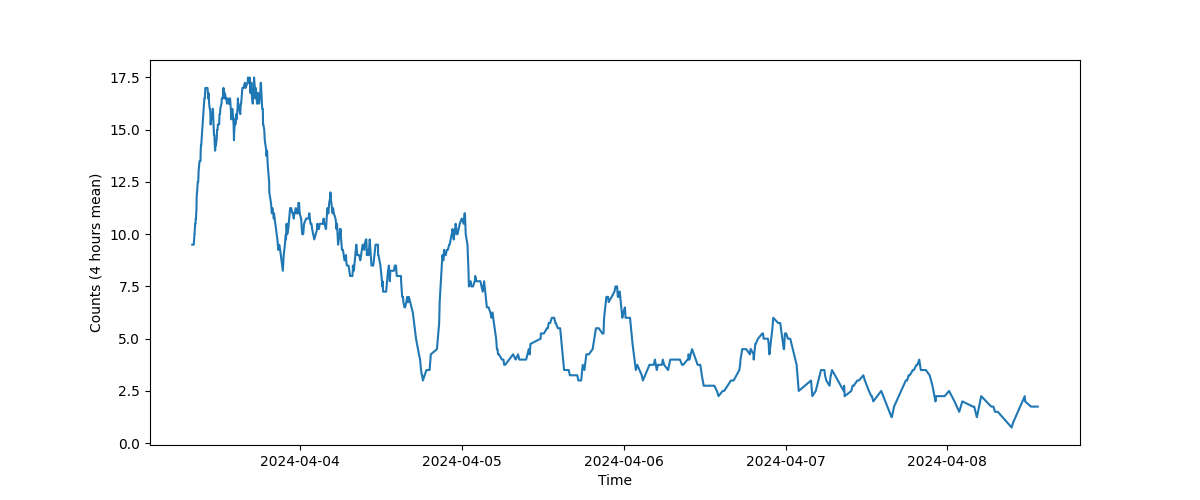
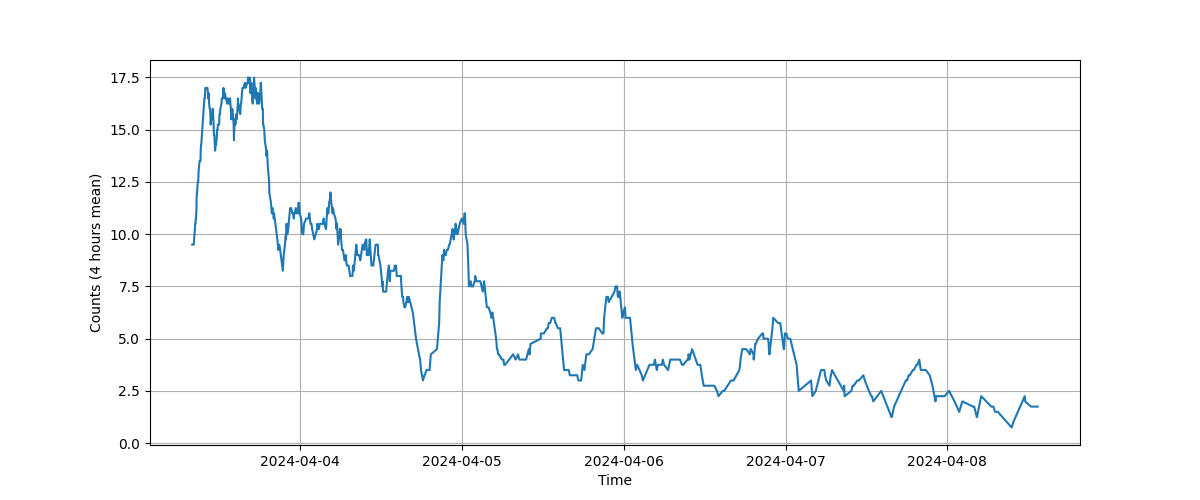
add grid lines

diff --git a/graph.py b/graph.py
@@ -114,6 +114,7 @@ ax.bar(
     color=np.where(data.magnitudes >= 5, 'r', np.where(data.magnitudes < 4, 'b', 'g')))
 ax.set_xlabel("Time")
 ax.set_ylabel("Magnitude")
+ax.grid()
 plt.savefig(Path("./outputs/mag_t.png"))
 plt.clf()
 
@@ -124,6 +125,7 @@ ax.plot(
     data.counts)
 ax.set_xlabel("Time")
 ax.set_ylabel("Counts (4 hours mean)")
+ax.grid()
 plt.savefig(Path("./outputs/count_t.png"))
 plt.clf()
 
@@ -138,6 +140,7 @@ ax.set_ylabel("Counts (4 hours mean, log scale)")
 ax.set_xscale('log', base=10)
 ax.set_yscale('log', base=10)
 ax.set_xlim(2.0)
+ax.grid()
 plt.savefig(Path("./outputs/count_t_flog.png"))
 plt.clf()
 
@@ -148,6 +151,7 @@ ax.plot(
     data.summed_magnitudes)
 ax.set_xlabel("Time")
 ax.set_ylabel("Energy Release")
+ax.grid()
 plt.savefig(Path("./outputs/summed_energy_t.png"))
 plt.clf()
 
@@ -158,6 +162,7 @@ ax.plot(
     data.cumulative_magnitudes)
 ax.set_xlabel("Time")
 ax.set_ylabel("Cumulative Energy")
+ax.grid()
 plt.savefig(Path("./outputs/cumulative_energy_t.png"))
 plt.clf()
 
